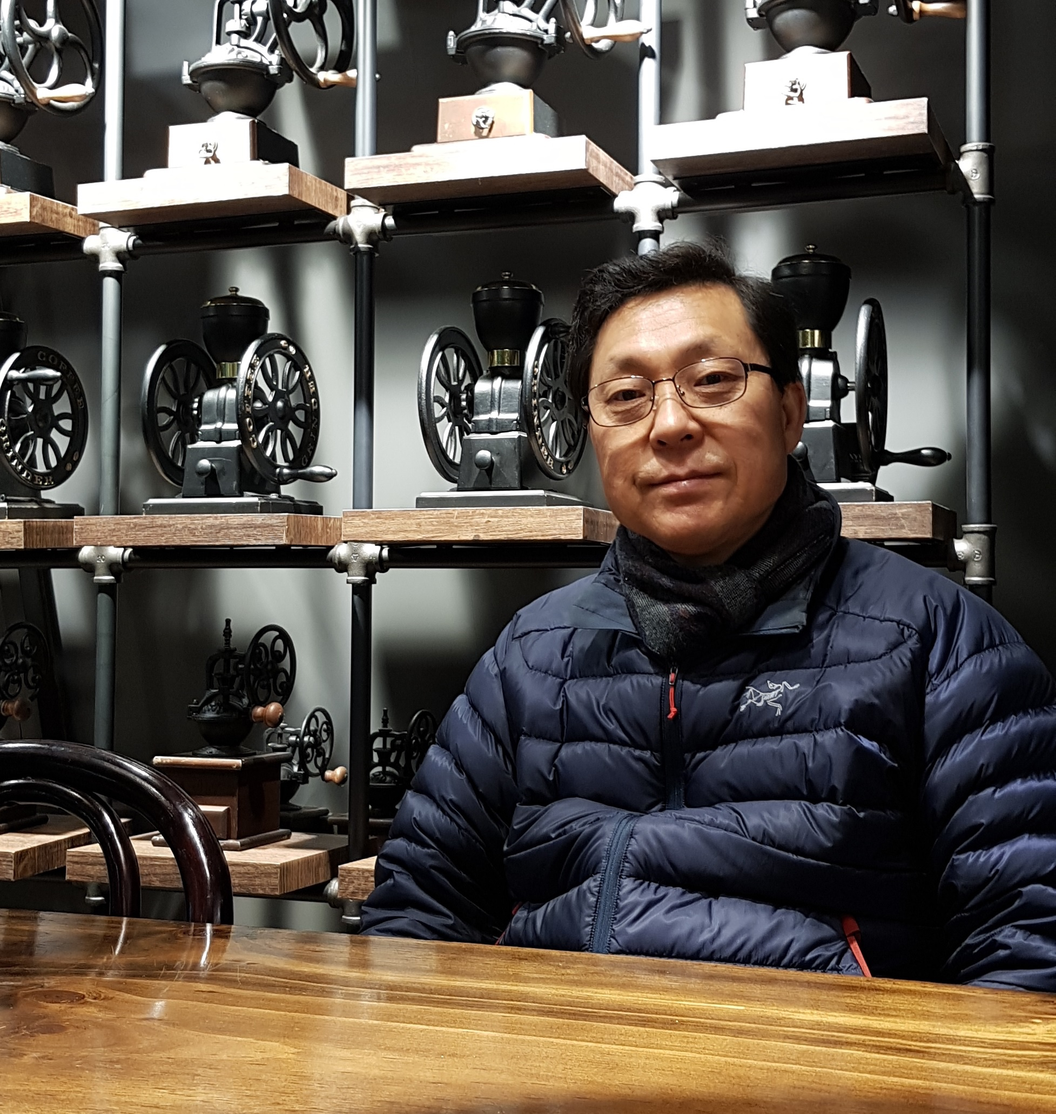
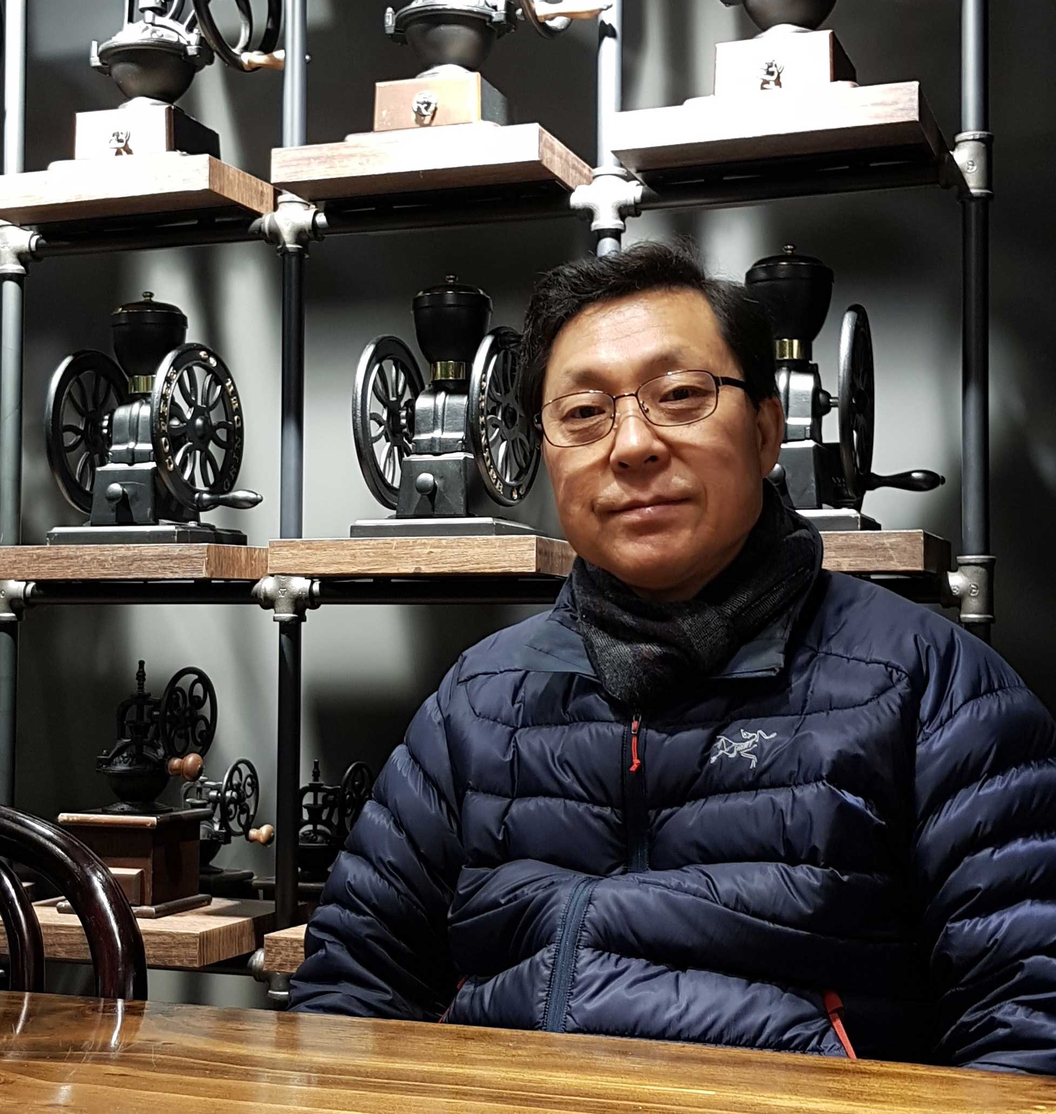
change image

diff --git a/home.html b/home.html
@@ -541,7 +541,7 @@
 		                        <div class="col-md-4 col-sm-6">
 		                            <div class="card card-1">
 		                                <div class="card__image">
-		                                    <img alt="Pic" src="img/small3.jpg">
+		                                    <img alt="Pic" src="img/news3.jpg">
 		                                </div>
 		                                <div class="card__body boxed bg--white">
 		                                    <div class="card__title">
